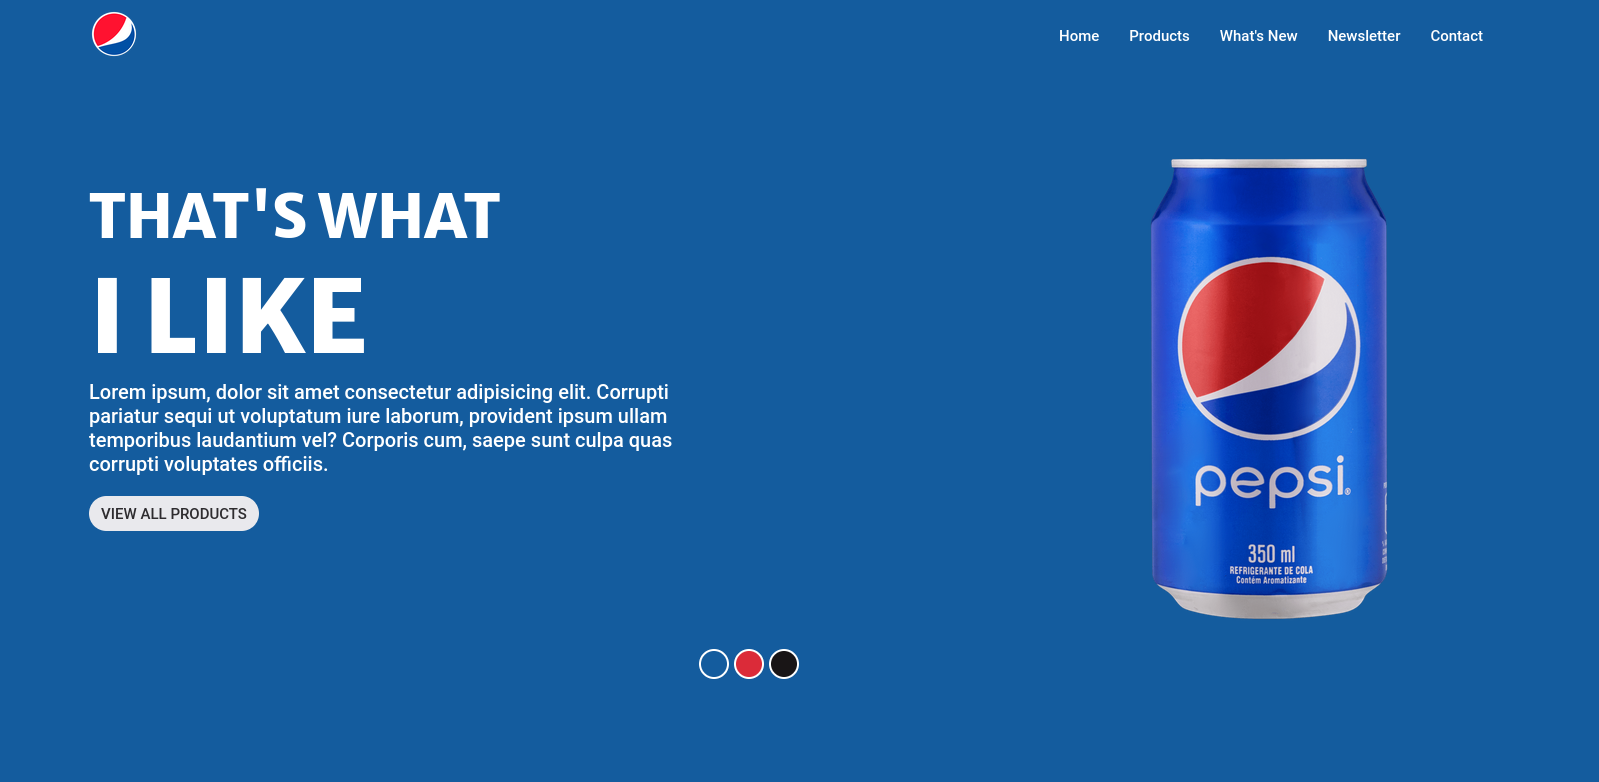
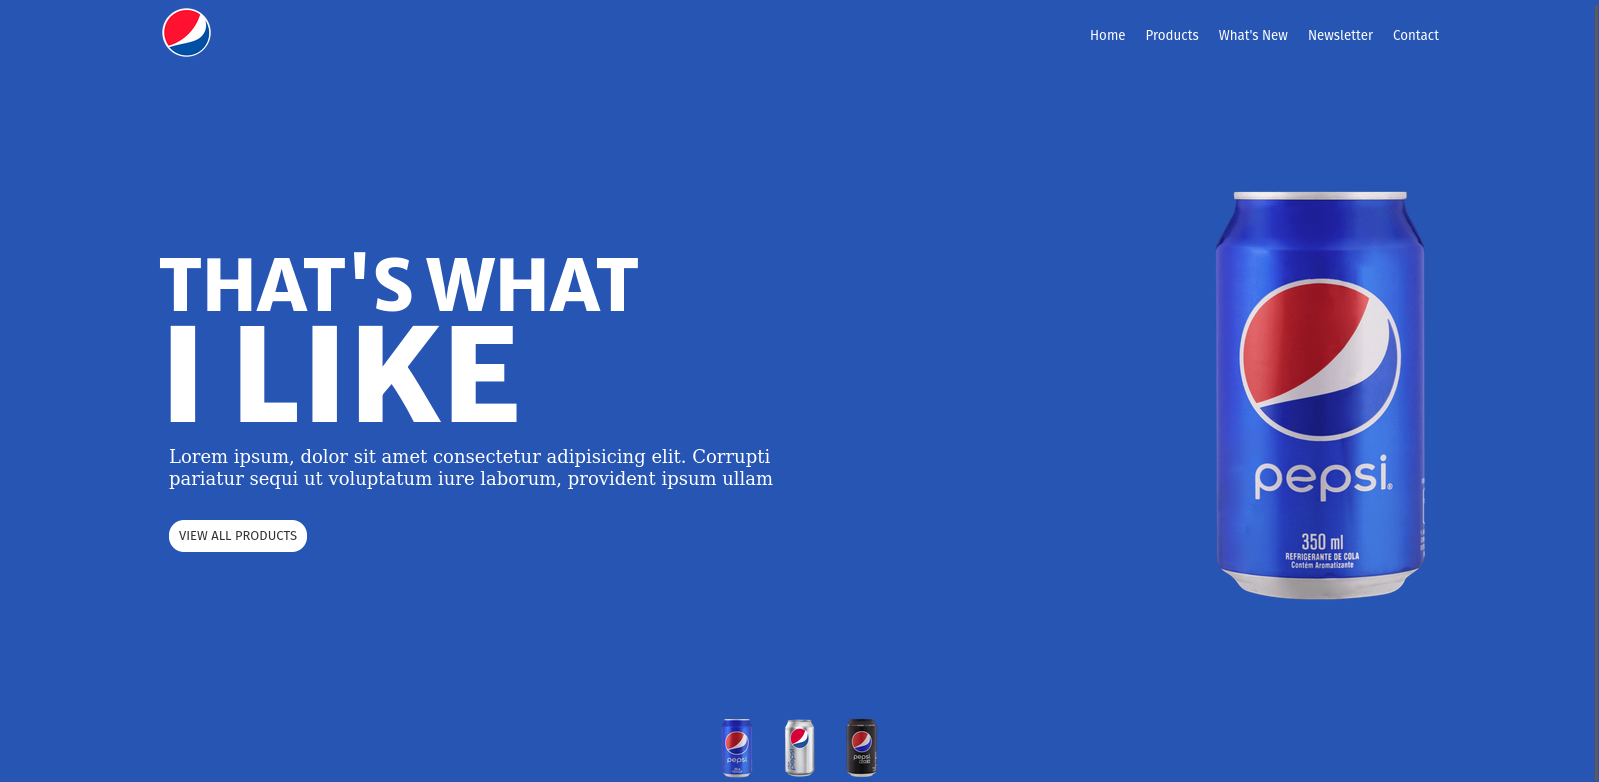
alteracoes nos tamanhos

diff --git a/src/components/Footer/index.jsx b/src/components/Footer/index.jsx
@@ -8,19 +8,19 @@ export function Footer() {
     <>
       <div className={footer}>
         <div>
-          <a href="https://www.linkedin.com/in/andressa-ricardo/">
+          <a href="https://www.linkedin.com/in/andressa-ricardo/" target="_blank" rel="noreferrer">
             <button>
               <img src={linkedin} alt="" />
               <p>Linkedin</p>
             </button>
           </a>
-          <a href="https://github.com/andressa-ricardo">
+          <a href="https://github.com/andressa-ricardo" target="_blank" rel="noreferrer">
             <button>
               <img src={github} alt="" />
               <p>Github</p>
             </button>
           </a>
-          <a href="mailto:andressaricardo30@gmail.com">
+          <a href="mailto:andressaricardo30@gmail.com" target="_blank" rel="noreferrer">
             <button>
               <img src={email} alt="" />
               <p>Email</p>

diff --git a/src/components/Navbar/index.jsx b/src/components/Navbar/index.jsx
@@ -5,10 +5,18 @@ export function Navbar() {
     <>
       <nav>
         <div className={buttonsNav}>
-          <button className={btnNav}>Home</button>
-          <button className={btnNav}>Sobre</button>
-          <button className={btnNav}>Projetos</button>
-          <button className={btnNav}>Contato</button>
+          <a href="#home">
+            <button className={btnNav}>Home</button>
+          </a>
+          <a href="#projeto">
+            <button className={btnNav}>Projetos</button>
+          </a>
+          <a href="#sobre">
+            <button className={btnNav}>Sobre</button>
+          </a>
+          <a href="#contato">
+            <button className={btnNav}>Contato</button>
+          </a>
         </div>
       </nav>
     </>

diff --git a/src/components/About/styles.module.css b/src/components/About/styles.module.css
@@ -1,10 +1,11 @@
 .about {
     background-color: #bc3838;
-    height: 60vh;
+    min-height: 60vh;
     display: flex;
     align-items: center;
-    justify-content: center;
-    gap: 8rem;
+    justify-content: space-evenly;
+    gap: 4rem;
+    padding: 2rem 0;
 }
 
 .aboutMe {
@@ -15,16 +16,28 @@
     color: white;
 }
 
-h2{
+h2 {
     font-size: 1.8rem;
 }
 
-.aboutMe p{
+.aboutMe p {
     font-size: 1.2rem;
     text-align: center;
 }
 
-.iconSvg{
+.iconSvg {
     height: 18rem;
 }
 
+
+@media (max-width: 950px) {
+    .about {
+        flex-direction: column;
+    }
+    .iconSvg{
+        height: 12rem;
+    }
+    .about p {
+        font-size: .95rem;
+    }
+}

diff --git a/src/components/Projects/styles.module.css b/src/components/Projects/styles.module.css
@@ -1,9 +1,10 @@
 .projects{
-    height: 60vh;
+    min-height: 60vh;
     display: flex;
     flex-direction: column;
+    align-items: center;
     gap: 3rem;
-    padding-top: 2rem;
+    padding: 2rem 0;
 }
 
 .projects h2{
@@ -17,5 +18,11 @@
     display: flex;
     justify-content: space-evenly;
     align-items: center;
+    gap: 1rem;
+}
 
+@media (max-width: 950px) {
+    .projetos{
+        flex-direction: column;
+    }
 }

diff --git a/src/components/Navbar/styles.module.css b/src/components/Navbar/styles.module.css
@@ -1,7 +1,7 @@
 nav{
     background-color: #bc3838;
     display: flex;
-    justify-content: flex-end;
+    justify-content: center;
     width: 100%;
     height: 100px;
     align-items: center;
@@ -10,7 +10,6 @@ nav{
 .buttonsNav{
     display: flex;
     gap: 1.9rem;
-    margin-right: 3rem;
 }
 
 .btnNav{

diff --git a/src/components/Footer/styles.module.css b/src/components/Footer/styles.module.css
@@ -1,6 +1,7 @@
 .footer div {
     height: 180px;
     width: 90%;
+    max-width: 800px;
     display: flex;
     align-items: center;
     justify-content: space-evenly;
@@ -28,7 +29,7 @@ a{
     display: flex;
     align-items: center;
     gap: 1rem;
-    padding: .6rem 1.4rem;
+    padding: .6rem;
 }
 
 

diff --git a/src/components/Projects/index.jsx b/src/components/Projects/index.jsx
@@ -5,7 +5,7 @@ import { Calculator } from "./Calculator";
 export function Projects() {
   return (
     <>
-      <div className={projects}>
+      <div className={projects} id="projeto">
         < h2>Projetos</ h2>
         <div className={projetos}>
           <Calculator></Calculator>

diff --git a/src/components/Me/styles.module.css b/src/components/Me/styles.module.css
@@ -9,7 +9,7 @@ main{
 h1{
     font-weight: 900;
     color: #360909;
-    font-size: 2.6rem;
+    font-size: 2rem;
 }
 
 .infosHome{
@@ -30,7 +30,7 @@ h1{
 }
 
 .infosHome img {
-    height: 17rem;
-    width: 17rem;
+    height: 15rem;
+    width: 15rem;
 
 }

diff --git a/src/App.css b/src/App.css
@@ -4,17 +4,9 @@
   padding: 0%;
   margin: 0%;
   font-family: 'Poppins', sans-serif;
+  scroll-behavior: smooth;
 }
 
 body{
   height: 100vh;
-}
-
-.row{
-  display: flex;
-  flex-direction: row;
-}
-
-@media (min-width: 600px ){
-  
 }
